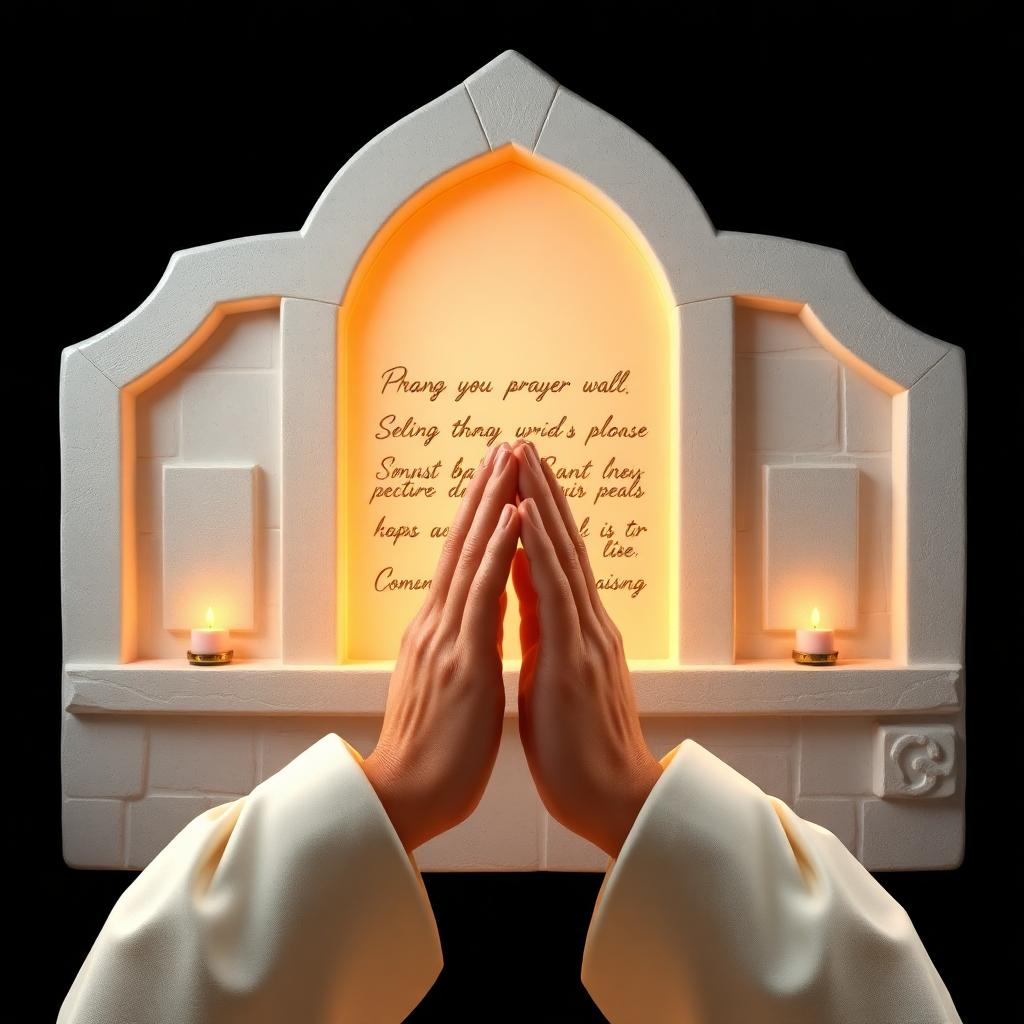
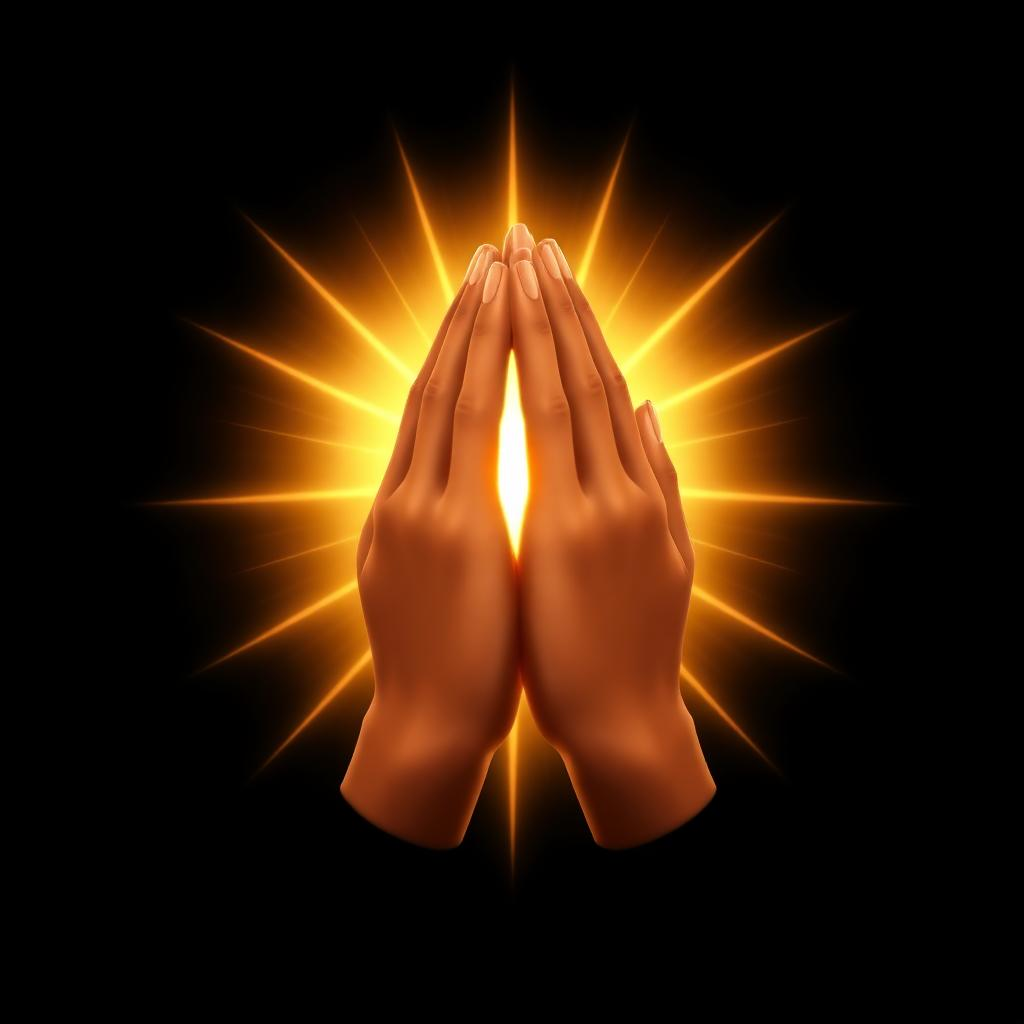
Changes

diff --git a/src/pages/MainMenu.tsx b/src/pages/MainMenu.tsx
@@ -11,6 +11,7 @@ import { Card } from "@/components/ui/card";
 import { Dialog, DialogContent, DialogHeader, DialogTitle, DialogDescription } from "@/components/ui/dialog";
 import dailyWisdomIcon from "@/assets/daily-wisdom-icon.png";
 import planOfSalvation from "@/assets/plan-of-salvation.png";
+import prayerWallIcon from "@/assets/prayer-wall-icon.png";
 import { ScrollArea } from "@/components/ui/scroll-area";
 import { useLanguage } from "@/contexts/LanguageContext";
 import { usePremium } from "@/contexts/PremiumContext";
@@ -634,23 +635,30 @@ const MainMenu = () => {
                 </p>
               </button>
 
-              {/* Prayer & Testimony Wall Button */}
-              <div className="col-span-3 mt-4 mb-2 flex justify-center">
-                <Card 
-                  className="relative overflow-hidden border-4 border-black blue-sky-gradient hover:opacity-90 transition-all cursor-pointer w-full max-w-md"
-                  onClick={() => navigate("/prayer-wall")}
-                >
-                  <div className="p-4 flex items-center gap-4">
-                    <div className="w-12 h-12 rounded-full bg-black flex items-center justify-center flex-shrink-0">
-                      <Heart className="w-6 h-6 text-white" />
-                    </div>
-                    <div className="flex-1">
-                      <h3 className="text-base font-bold text-secondary">Prayer & Testimony Wall</h3>
-                      <p className="text-xs text-secondary/80">Share prayers and testimonies with the community</p>
-                    </div>
+              {/* Prayer & Testimony Wall Circle — placed under Triune God */}
+              <button
+                type="button"
+                onClick={() => navigate("/prayer-wall")}
+                className="group flex flex-col items-center gap-1.5 focus:outline-none"
+                aria-label="Prayer & Testimony Wall"
+              >
+                <div className="w-[clamp(56px,18vw,84px)] h-[clamp(56px,18vw,84px)] rounded-full p-[2px] bg-gradient-to-br from-[#7DD3FC] via-[#3BB4F2] to-[#0052D4] shadow-[0_8px_22px_-8px_hsl(var(--primary)/0.55)] transition-transform duration-300 group-hover:scale-105 group-active:scale-95 group-hover:shadow-[0_12px_30px_-10px_hsl(var(--primary)/0.75)]">
+                  <div className="relative w-full h-full rounded-full overflow-hidden ring-1 ring-white/25 bg-black/40 backdrop-blur-xl">
+                    <span className="pointer-events-none absolute inset-x-2 top-1 h-1/3 rounded-full bg-gradient-to-b from-white/30 to-transparent blur-sm z-10" />
+                    <img
+                      src={prayerWallIcon}
+                      alt="Prayer & Testimony Wall"
+                      className="w-full h-full object-cover"
+                      loading="lazy"
+                      width={1024}
+                      height={1024}
+                    />
                   </div>
-                </Card>
-              </div>
+                </div>
+                <p className="text-xs font-medium leading-tight text-center max-w-[110px]">
+                  Prayer Wall
+                </p>
+              </button>
 
               <Dialog open={salvationOpen} onOpenChange={setSalvationOpen}>
                 <DialogContent className="max-w-2xl max-h-[90vh] p-0 overflow-hidden border-2 border-primary/30 bg-gradient-to-br from-background via-card to-primary/5">
